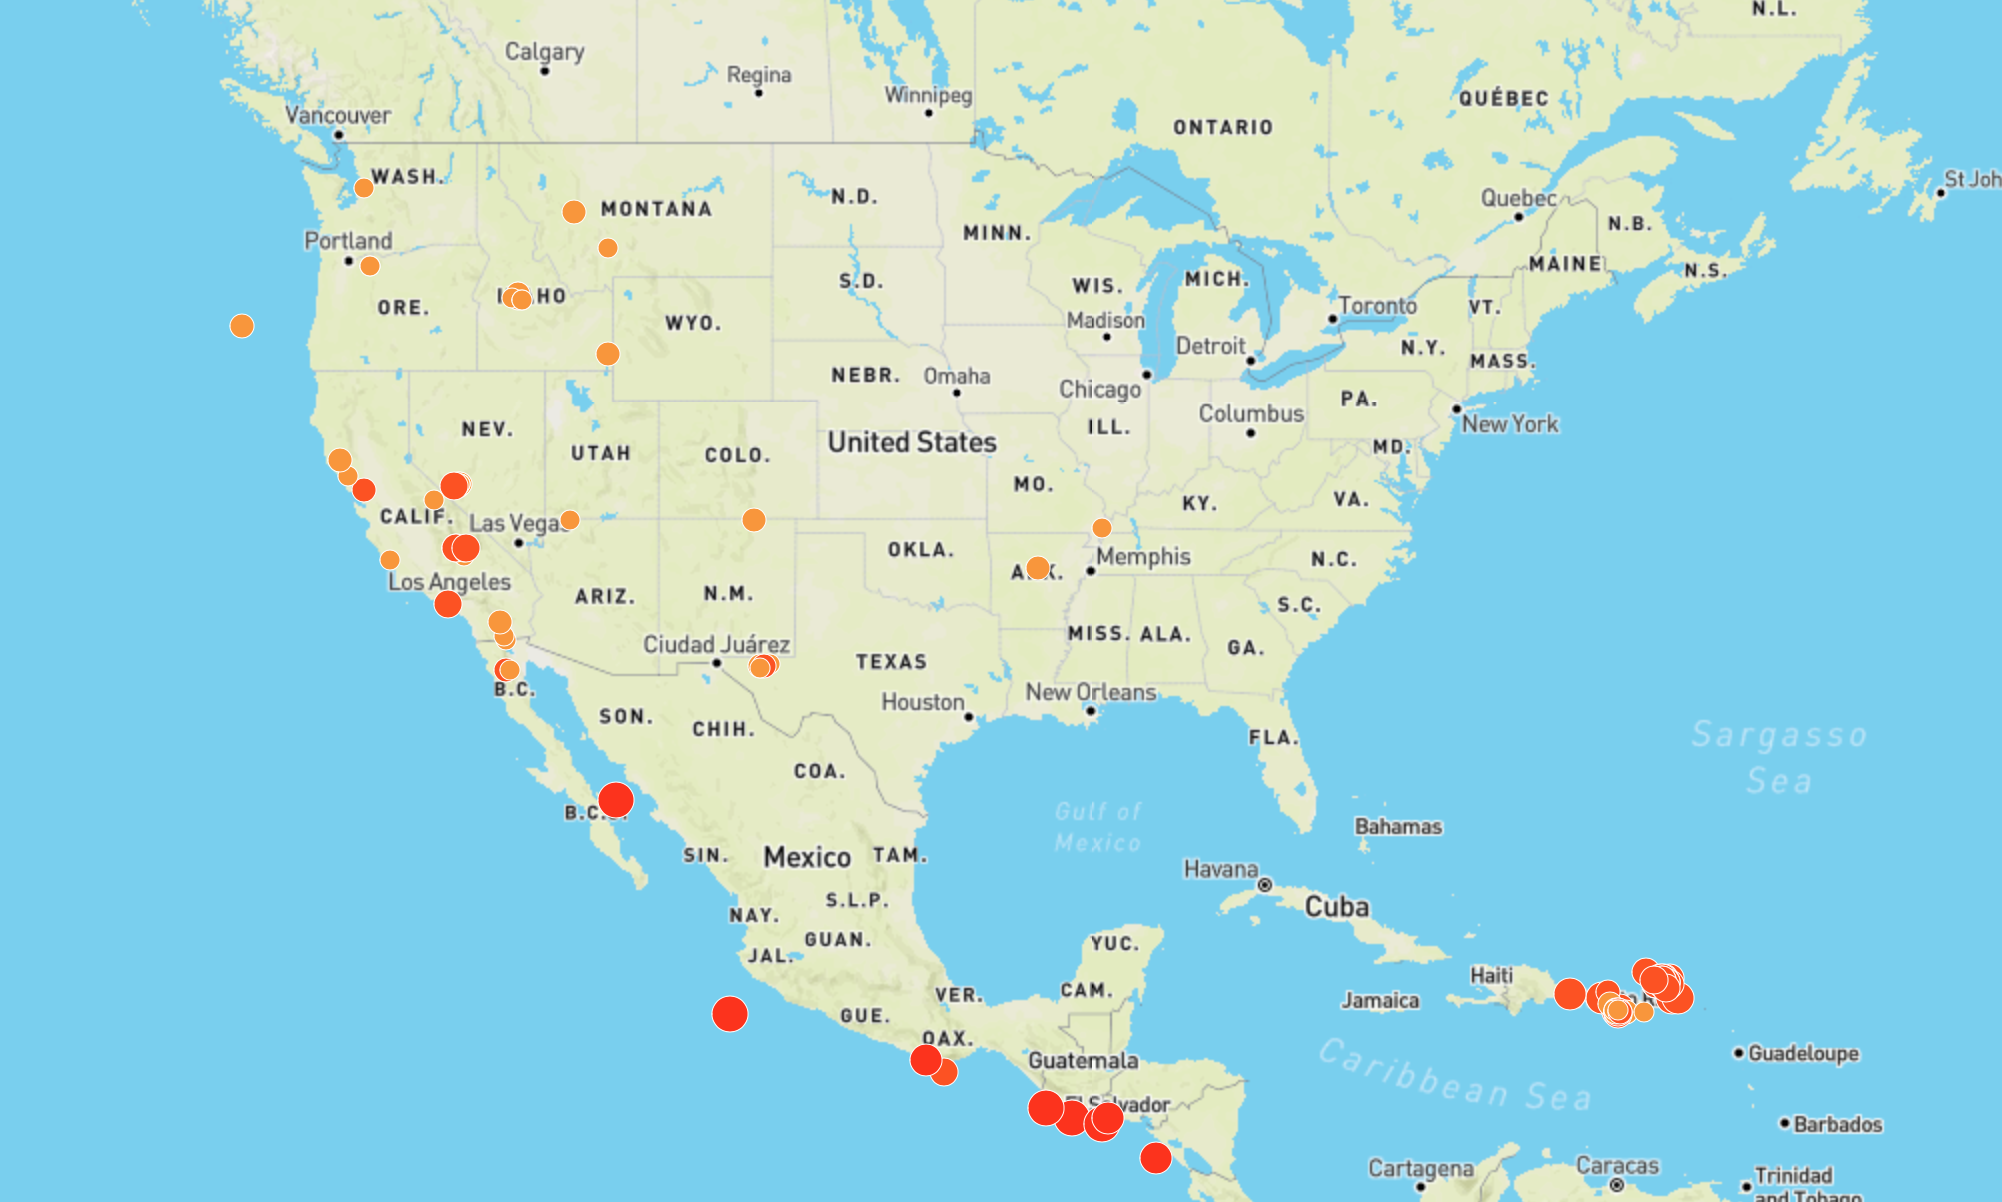
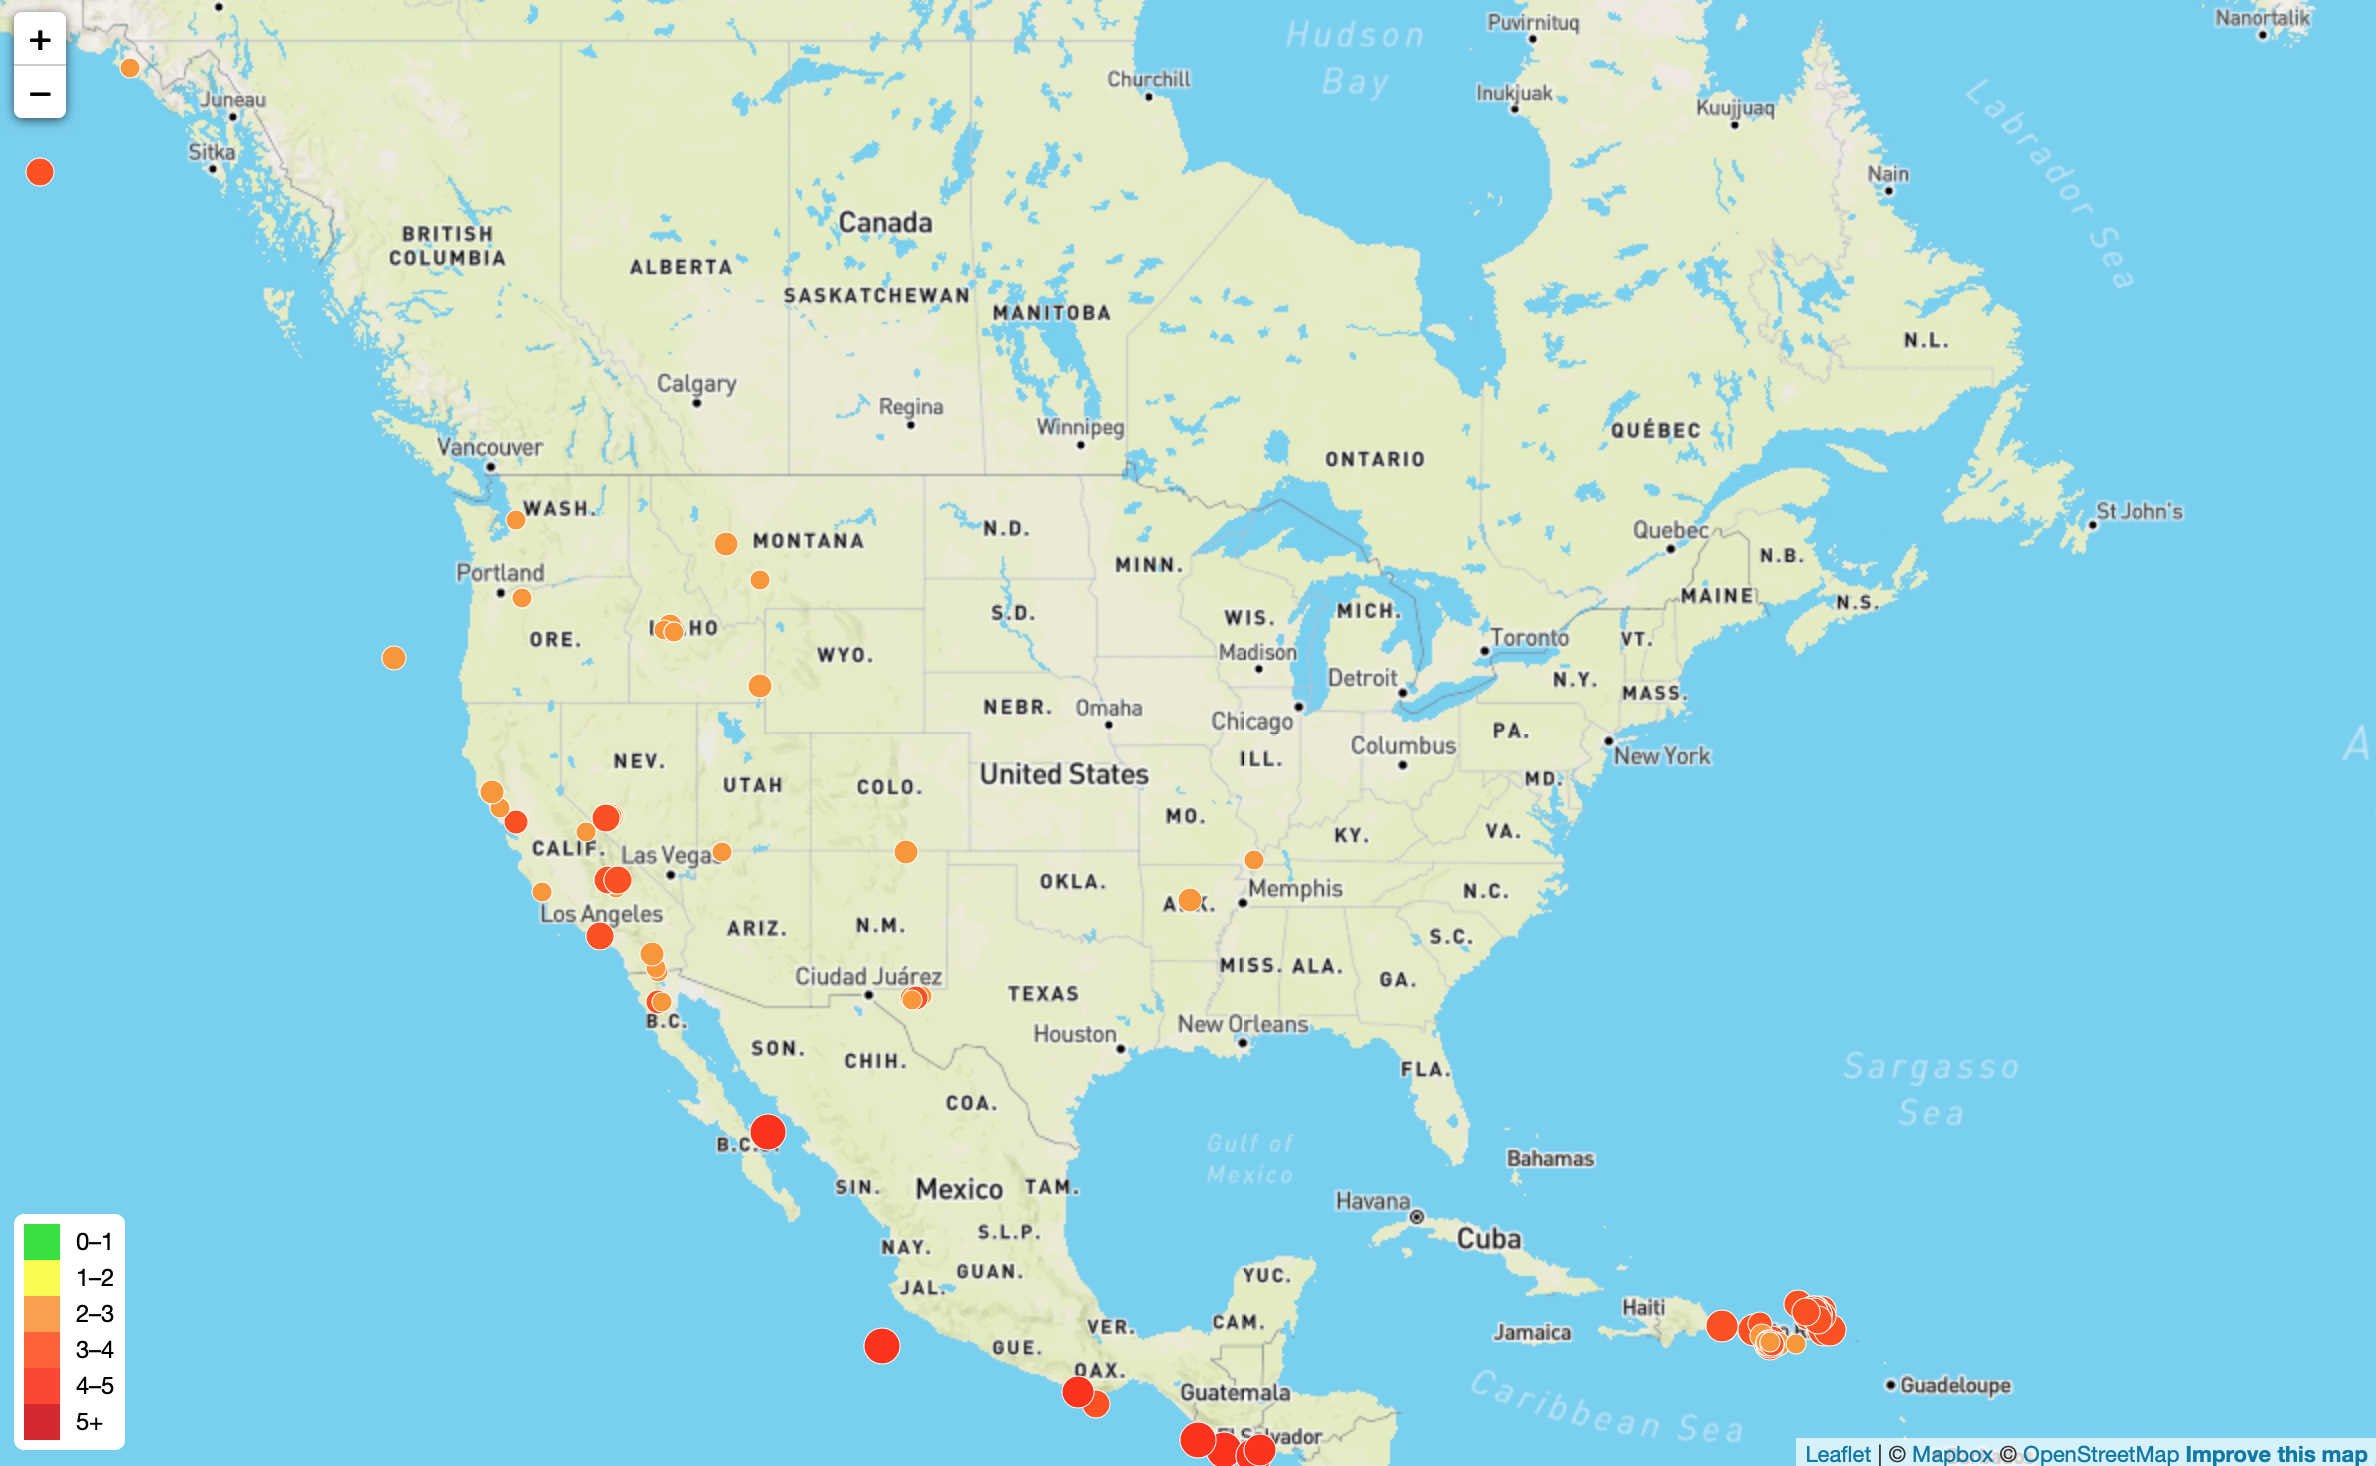
update css for legend

diff --git a/Leaflet-Step-1/css/style.css b/Leaflet-Step-1/css/style.css
@@ -9,3 +9,17 @@ body {
     height: 100%;
   }
   
+.legend {
+    line-height: 18px;
+    color: #000;
+    background: #fff;
+    padding: 5px;
+    border-radius: 5px;
+}
+.legend i {
+    width: 18px;
+    height: 18px;
+    float: left;
+    margin-right: 8px;
+    opacity: .9;
+}
